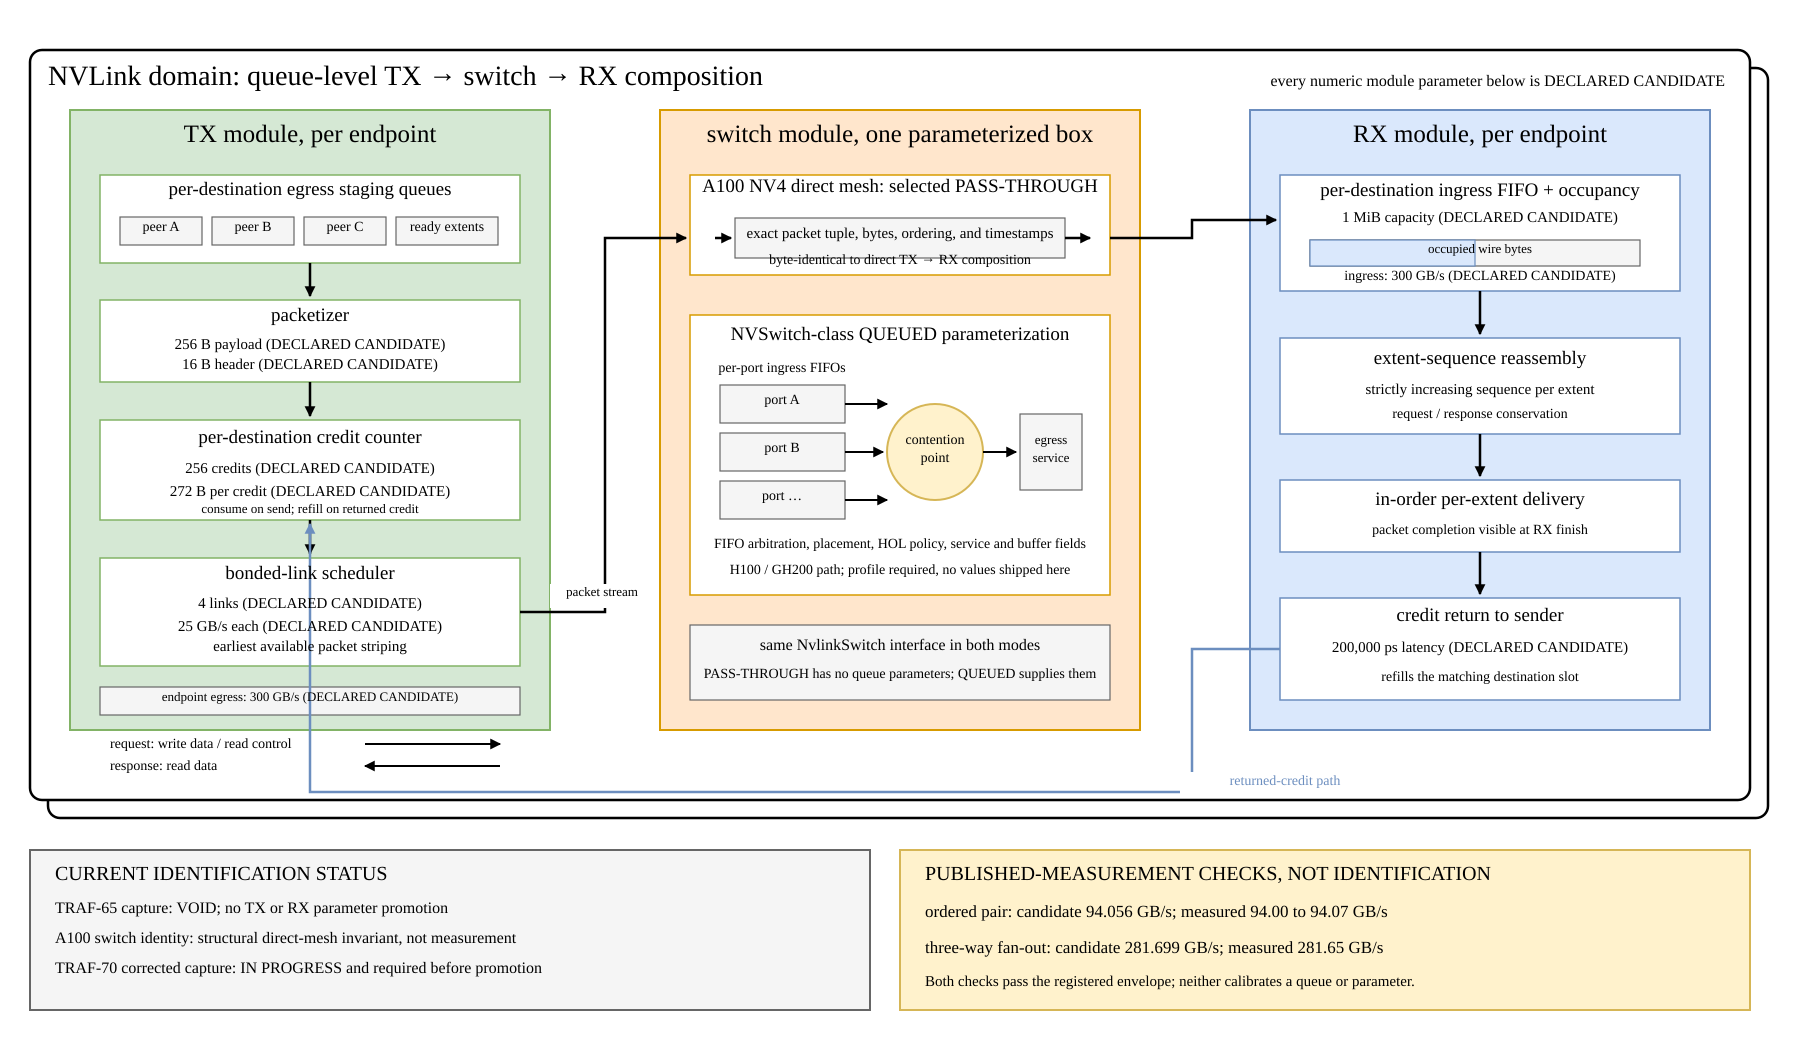
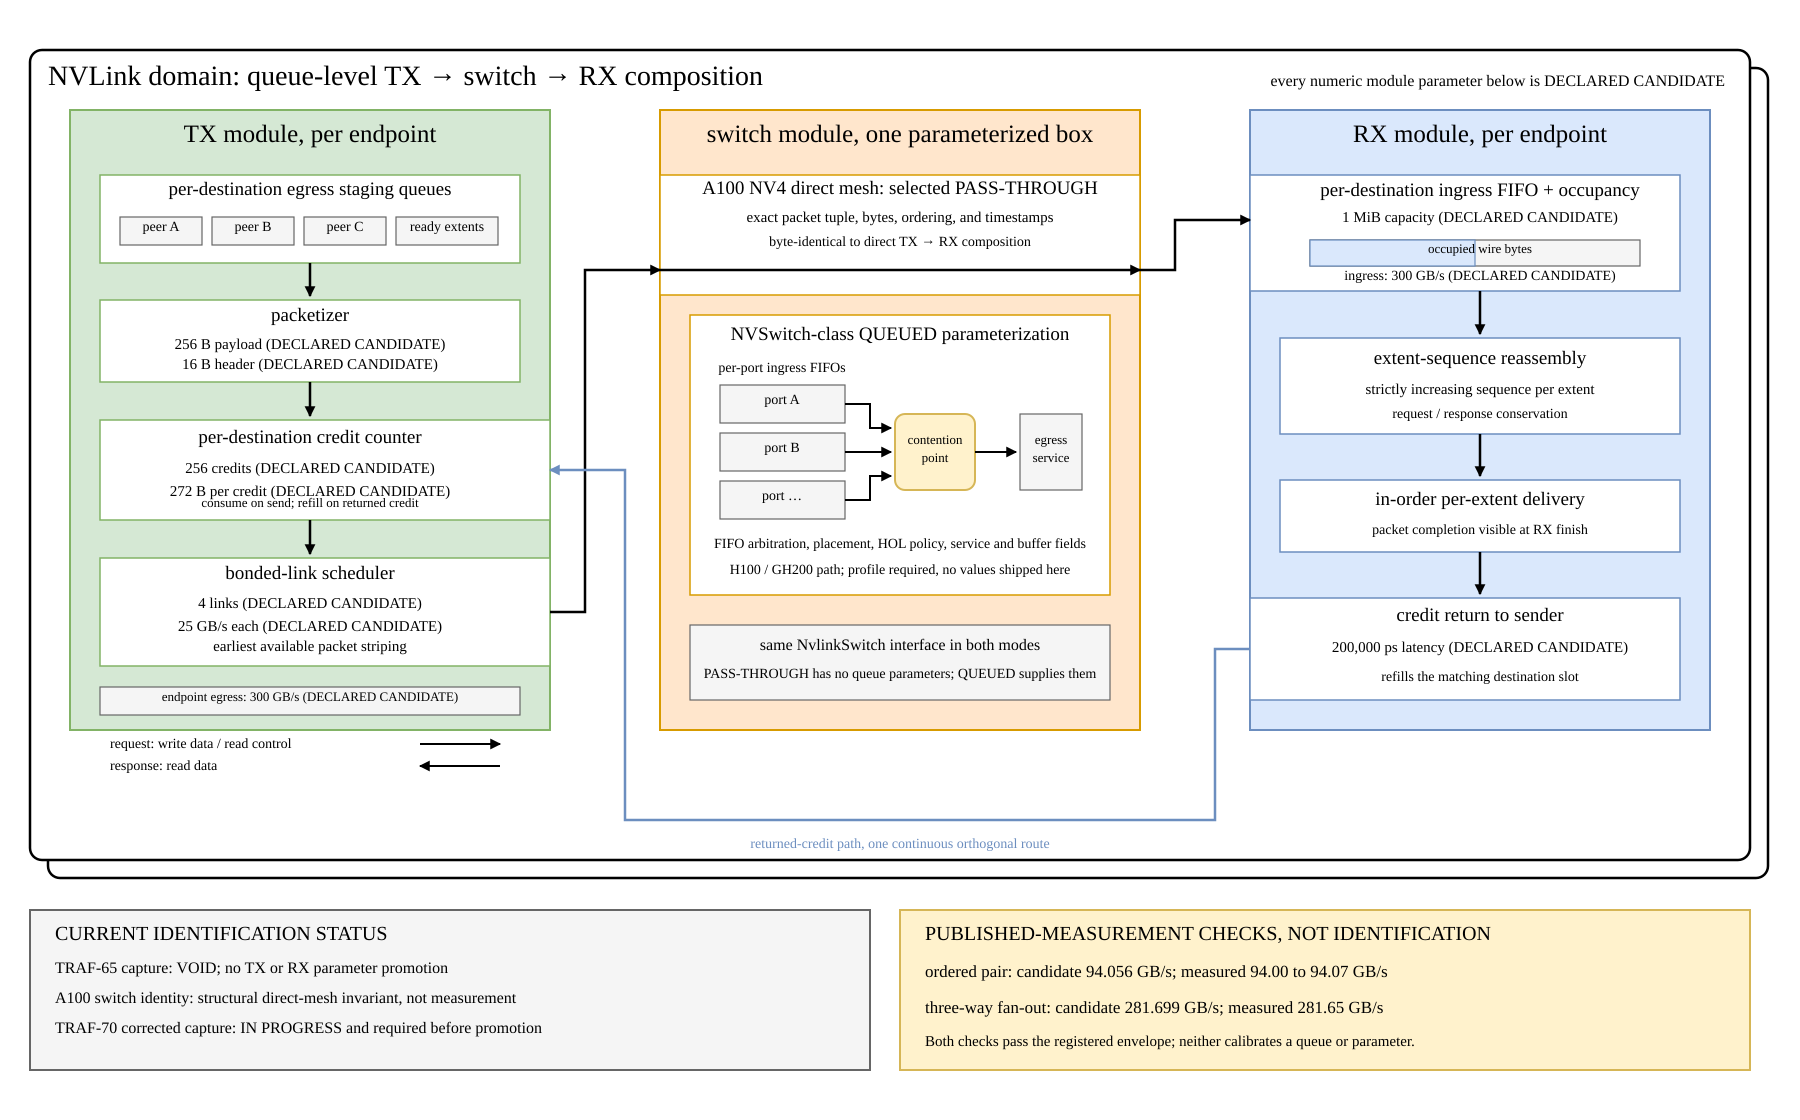
docs: repair NVLink figure routing

Changed region(s): [[0.0, 0.0311, 0.9956, 0.9651]]

diff --git a/tests/test_htsim_nvlink.py b/tests/test_htsim_nvlink.py
@@ -1,5 +1,9 @@
 import dataclasses
+import re
+from collections import Counter
+from itertools import pairwise
 from pathlib import Path
+from xml.etree import ElementTree
 
 import pytest
 
@@ -24,7 +28,101 @@ from simllm.backends.htsim_nvlink import (
 
 ROOT = Path(__file__).resolve().parents[1]
 STUDY = ROOT / "examples" / "a100_nvlink_packet_v1"
+FIGURE = ROOT / "resources" / "figures" / "nvlink-domain-model.svg"
[1 lines of base64/hex data omitted]
+SVG = "{http://www.w3.org/2000/svg}"
+PATH_TOKEN = re.compile(r"[MHV]|-?(?:\d+(?:\.\d*)?|\.\d+)")
+
+
+def _orthogonal_points(path: ElementTree.Element) -> tuple[tuple[float, float], ...]:
+    data = path.attrib["d"]
+    tokens = PATH_TOKEN.findall(data)
+    remainder = PATH_TOKEN.sub("", data)
+    assert not remainder.replace(",", "").strip(), data
+    assert tokens.count("M") == 1, data
+    assert tokens[0] == "M", data
+    assert all(token not in {"L", "C", "Q", "S", "T", "A", "Z"} for token in tokens)
+
+    points: list[tuple[float, float]] = []
+    index = 0
+    current: tuple[float, float] | None = None
+    while index < len(tokens):
+        command = tokens[index]
+        index += 1
+        if command == "M":
+            current = (float(tokens[index]), float(tokens[index + 1]))
+            index += 2
+        elif command == "H":
+            assert current is not None
+            current = (float(tokens[index]), current[1])
+            index += 1
+        elif command == "V":
+            assert current is not None
+            current = (current[0], float(tokens[index]))
+            index += 1
+        else:
+            raise AssertionError(f"non-orthogonal SVG command {command!r} in {data!r}")
+        points.append(current)
+    return tuple(points)
+
+
+def _rect_box(rect: ElementTree.Element) -> tuple[float, float, float, float]:
+    left = float(rect.attrib["x"])
+    top = float(rect.attrib["y"])
+    return (
+        left,
+        top,
+        left + float(rect.attrib["width"]),
+        top + float(rect.attrib["height"]),
+    )
+
+
+def _text_box(text: ElementTree.Element) -> tuple[float, float, float, float]:
+    """Return a conservative box without depending on an installed font."""
+
+    content = "".join(text.itertext())
+    size = float(text.attrib["font-size"])
+    width = max(size, len(content) * size * 0.58)
+    x = float(text.attrib["x"])
+    y = float(text.attrib["y"])
+    anchor = text.attrib.get("text-anchor", "start")
+    if anchor == "middle":
+        left = x - width / 2
+    elif anchor == "end":
+        left = x - width
+    else:
+        left = x
+    if text.attrib.get("dominant-baseline") == "central":
+        top = y - size * 0.6
+    else:
+        top = y - size
+    return left, top, left + width, top + size * 1.2
+
+
+def _segment_crosses_box(
+    start: tuple[float, float],
+    end: tuple[float, float],
+    box: tuple[float, float, float, float],
+) -> bool:
+    left, top, right, bottom = box
+    if start[0] == end[0]:
+        low, high = sorted((start[1], end[1]))
+        return left < start[0] < right and max(low, top) < min(high, bottom)
+    if start[1] == end[1]:
+        low, high = sorted((start[0], end[0]))
+        return top < start[1] < bottom and max(low, left) < min(high, right)
+    raise AssertionError(f"non-orthogonal segment {start!r} to {end!r}")
+
+
+def _point_on_box_boundary(
+    point: tuple[float, float], box: tuple[float, float, float, float]
+) -> bool:
+    left, top, right, bottom = box
+    return (
+        left <= point[0] <= right
+        and top <= point[1] <= bottom
+        and (point[0] in {left, right} or point[1] in {top, bottom})
+    )
 
 
 @pytest.fixture
@@ -227,3 +325,83 @@ def test_declared_candidate_contains_the_published_envelope(candidate):
     assert validation.pair_worst_relative_error < 0.0008
     assert validation.predicted_fanout_payload_rate_gbps == pytest.approx(281.6991815868504)
     assert validation.fanout_relative_error < 0.0002
+
+
+def test_domain_figure_routes_are_continuous_and_clear_of_blocks_and_text():
+    root = ElementTree.parse(FIGURE).getroot()
+    routes = root.findall(f".//{SVG}path[@data-logical-path]")
+    assert routes == root.findall(f"./{SVG}path")
+    assert not root.findall(f".//{SVG}line")
+    assert not root.findall(f".//{SVG}polyline")
+    route_names = [route.attrib["data-logical-path"] for route in routes]
+    assert Counter(route_names) == Counter(
+        {
+            "tx-staging-packetizer",
+            "tx-packetizer-credit",
+            "tx-credit-bond",
+            "switch-pass",
+            "switch-fifo-a",
+            "switch-fifo-b",
+            "switch-fifo-other",
+            "switch-egress",
+            "rx-ingress-reassembly",
+            "rx-reassembly-delivery",
+            "rx-delivery-credit",
+            "packet-tx-switch",
+            "packet-switch-rx",
+            "credit-return",
+            "request-direction",
+            "response-direction",
+        }
+    )
+
+    rects_by_id = {
+        rect.attrib["id"]: rect
+        for rect in root.findall(f".//{SVG}rect[@id]")
+    }
+    non_obstacle_kinds = {"canvas", "frame", "container", "lane", "decoration"}
+    obstacle_rects = [
+        rect
+        for rect in root.findall(f".//{SVG}rect")
+        if rect.attrib.get("data-geometry") not in non_obstacle_kinds
+    ]
+    text_boxes = [
+        ("".join(text.itertext()), _text_box(text))
+        for text in root.findall(f".//{SVG}text")
+    ]
+
+    for route in routes:
+        points = _orthogonal_points(route)
+        assert len(points) >= 2
+        for attribute, endpoint in (
+            ("data-start-rect", points[0]),
+            ("data-end-rect", points[-1]),
+        ):
+            rect_id = route.attrib.get(attribute)
+            if rect_id is not None:
+                assert _point_on_box_boundary(endpoint, _rect_box(rects_by_id[rect_id]))
+
+        for start, end in pairwise(points):
+            for rect in obstacle_rects:
+                assert not _segment_crosses_box(start, end, _rect_box(rect)), (
+                    route.attrib["id"],
+                    rect.attrib.get("id", "unnamed-rect"),
+                )
+            for content, box in text_boxes:
+                assert not _segment_crosses_box(start, end, box), (
+                    route.attrib["id"],
+                    content,
+                )
+
+    credit_routes = [
+        route for route in routes if route.attrib["data-logical-path"] == "credit-return"
+    ]
+    assert len(credit_routes) == 1
+    assert _orthogonal_points(credit_routes[0]) == (
+        (1250.0, 649.0),
+        (1215.0, 649.0),
+        (1215.0, 820.0),
+        (625.0, 820.0),
+        (625.0, 470.0),
+        (550.0, 470.0),
+    )
